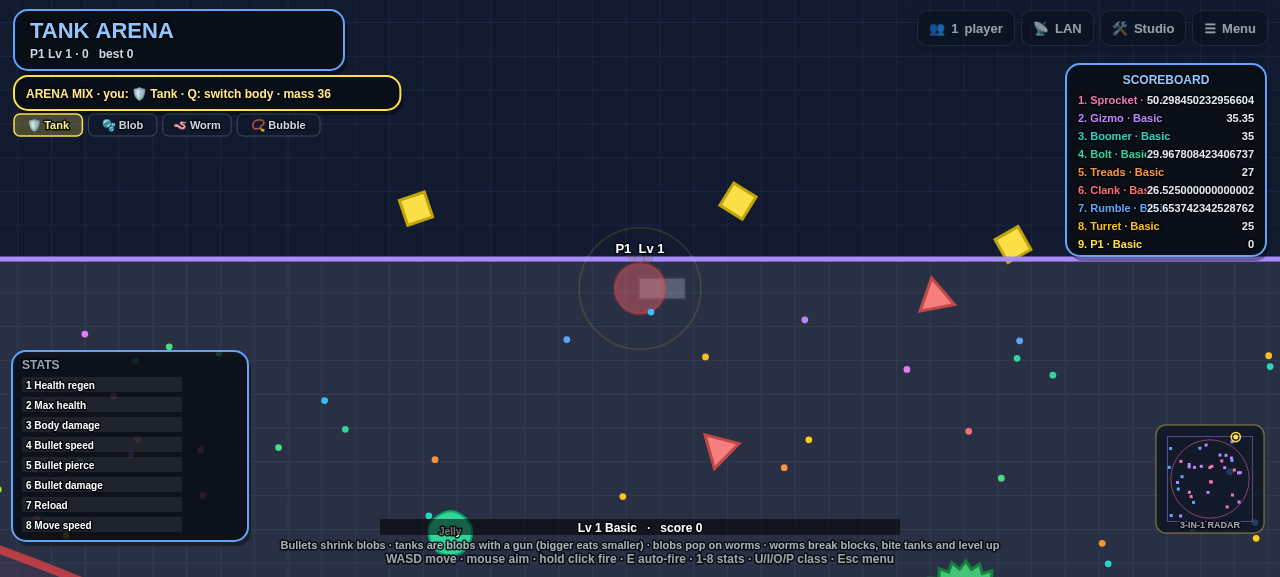
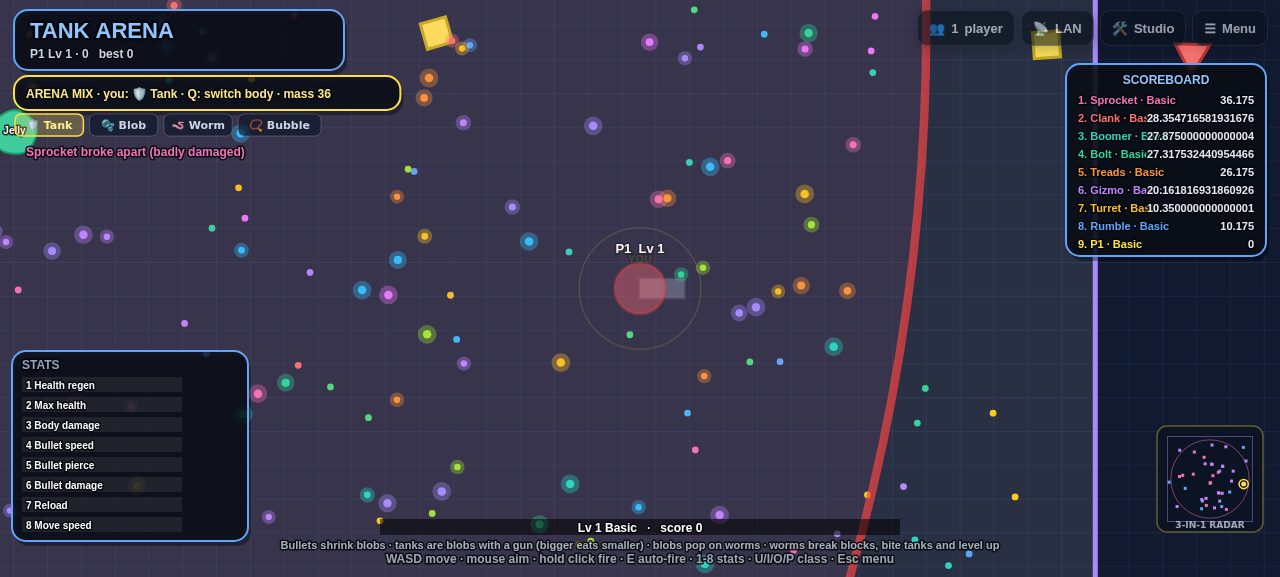
Add 2D pellet spatial grid, offscreen HUD/radar caching, and Cells/Snake pellet loop optimizations

diff --git a/game_mix.js b/game_mix.js
@@ -32,9 +32,36 @@ function mixSwapPop(arr, i) {
     arr.pop();
 }
 
+function mixBuildGrid(list, grid, used) {
+    for (let u = 0; u < used.length; u++) grid[used[u]].length = 0;
+    used.length = 0;
+    for (let i = 0; i < list.length; i++) {
+        var p = list[i];
+        p._gone = false;
+        var cx = (p.x + 3200) >> 8; if (cx < 0) cx = 0; else if (cx > 31) cx = 31;
+        var cy = (p.y + 3200) >> 8; if (cy < 0) cy = 0; else if (cy > 31) cy = 31;
+        var idx = (cy << 5) | cx;
+        var b = grid[idx];
+        if (!b) b = grid[idx] = [];
+        if (b.length === 0) used.push(idx);
+        b.push(p);
+    }
+}
+
+function mixCompactGone(list) {
+    var w = 0;
+    for (let i = 0; i < list.length; i++) {
+        var p = list[i];
+        if (!p._gone) list[w++] = p;
+    }
+    list.length = w;
+}
+
 var Mix = {
     on: false, t: 0, cam: { x: 0, y: 0, z: 0.8 }, view: null, log: [], fx: [],
     _blobR: [], _wormR: [], _tankS: [], _takers: [], _pills: [],
+    _cpGrid: new Array(1024), _cpUsed: [], _spGrid: new Array(1024), _spUsed: [],
+    _radarBg: null, _pillsCanvas: null, _pillsBody: "",
     stat: { bulletBlob: 0, bulletWorm: 0, blobAteTank: 0, tankAteBlob: 0, tankAteTank: 0, tankSplit: 0, blobPopped: 0, wormBite: 0, wormWall: 0, shapeBroken: 0, crossFood: 0, pickups: 0 },
 
     // every arena draws with the same camera; none of them may move it (this file does)
@@ -273,7 +300,15 @@ var Mix = {
             }
         }
         var sp0 = Snake.pellets, cp0 = Cells.pellets, viruses = Cells.viruses;
+        var cpGrid = this._cpGrid, spGrid = this._spGrid;
+        var cpBuilt = false, spBuilt = false, cpGone = false, spGone = false;
         var doWormFood = (this.t & 1) === 1;
+        if (doWormFood) {
+            if (sp0.length > 0 && tanks.length > 0) { mixBuildGrid(sp0, spGrid, this._spUsed); spBuilt = true; }
+        } else {
+            if (cp0.length > 0 && (tanks.length > 0 || worms.length > 0)) { mixBuildGrid(cp0, cpGrid, this._cpUsed); cpBuilt = true; }
+            if (sp0.length > 0 && blobs.length > 0) { mixBuildGrid(sp0, spGrid, this._spUsed); spBuilt = true; }
+        }
         for (let i = 0; i < tanks.length; i++) {
             var k = tanks[i];
             if (!k.alive) continue;
@@ -305,22 +340,40 @@ var Mix = {
             // decay like a blob (same setting as Blob Arena)
             if (cellsCfg.decay > 0 && k.mixMass > 40) { k.mixMass -= k.mixMass * cellsCfg.decay * (cellsCfg.decayGrow ? 1 + k.mixMass / 800 : 1); km = k.mixMass; }
             var ks2 = ks * ks;
+            var cx0 = ((kx - ks + 3200) >> 8); if (cx0 < 0) cx0 = 0;
+            var cx1 = ((kx + ks + 3200) >> 8); if (cx1 > 31) cx1 = 31;
+            var cy0 = ((ky - ks + 3200) >> 8); if (cy0 < 0) cy0 = 0;
+            var cy1 = ((ky + ks + 3200) >> 8); if (cy1 > 31) cy1 = 31;
             // collect some of the worms' food too (a third of its value, like blob food)
             if (doWormFood) {
-                for (let q = sp0.length - 1; q >= 0; q--) {
-                    var g0 = sp0[q], gdx = g0.x - kx, gdy = g0.y - ky;
-                    if (gdx < ks && gdx > -ks && gdy < ks && gdy > -ks && gdx * gdx + gdy * gdy < ks2) {
-                        k.mixMass += g0.v * 0.35; Tanks.gainXp(k, 1); mixSwapPop(sp0, q); S.crossFood++;
+                if (spBuilt) {
+                    for (let gy = cy0; gy <= cy1; gy++) {
+                        var row = gy << 5;
+                        for (let gx = cx0; gx <= cx1; gx++) {
+                            var bk = spGrid[row | gx];
+                            if (!bk || !bk.length) continue;
+                            for (let q = 0; q < bk.length; q++) {
+                                var g0 = bk[q]; if (g0._gone) continue;
+                                var gdx = g0.x - kx, gdy = g0.y - ky;
+                                if (gdx * gdx + gdy * gdy < ks2) { k.mixMass += g0.v * 0.35; Tanks.gainXp(k, 1); g0._gone = true; spGone = true; S.crossFood++; }
+                            }
+                        }
                     }
                 }
             } else {
                 // eat food (and the inert lumps other tanks dropped)
-                for (let q = cp0.length - 1; q >= 0; q--) {
-                    var f0 = cp0[q];
-                    if (f0.from === k && this.t - f0.born < 180) continue;
-                    var fdx = f0.x - kx, fdy = f0.y - ky;
-                    if (fdx < ks && fdx > -ks && fdy < ks && fdy > -ks && fdx * fdx + fdy * fdy < ks2) {
-                        k.mixMass += f0.m * (f0.lump ? 0.8 : 0.35); mixSwapPop(cp0, q); S.crossFood++;
+                if (cpBuilt) {
+                    for (let gy = cy0; gy <= cy1; gy++) {
+                        var rowC = gy << 5;
+                        for (let gx = cx0; gx <= cx1; gx++) {
+                            var bkC = cpGrid[rowC | gx];
+                            if (!bkC || !bkC.length) continue;
+                            for (let q = 0; q < bkC.length; q++) {
+                                var f0 = bkC[q]; if (f0._gone || (f0.from === k && this.t - f0.born < 180)) continue;
+                                var fdx = f0.x - kx, fdy = f0.y - ky;
+                                if (fdx * fdx + fdy * fdy < ks2) { k.mixMass += f0.m * (f0.lump ? 0.8 : 0.35); f0._gone = true; cpGone = true; S.crossFood++; }
+                            }
+                        }
                     }
                 }
             }
@@ -405,20 +458,36 @@ var Mix = {
             if (fx.speed > 0) fx.speed--;
             if (fx.magnet > 0) {
                 fx.magnet--;
+                if (!cpBuilt && cp0.length > 0) { mixBuildGrid(cp0, cpGrid, this._cpUsed); cpBuilt = true; }
+                if (!T.tank && !spBuilt && sp0.length > 0) { mixBuildGrid(sp0, spGrid, this._spUsed); spBuilt = true; }
                 var magSq = 380 * 380;
-                for (let z = 0; z < cp0.length; z++) {
-                    var mp = cp0[z], mdx = T.x - mp.x, mdy = T.y - mp.y;
-                    if (mdx < 380 && mdx > -380 && mdy < 380 && mdy > -380) {
-                        var mdsq = mdx * mdx + mdy * mdy;
-                        if (mdsq < magSq && mdsq > 1) { var md = Math.sqrt(mdsq); mp.x += mdx / md * 7; mp.y += mdy / md * 7; }
+                var mx0 = ((T.x - 380 + 3200) >> 8); if (mx0 < 0) mx0 = 0;
+                var mx1 = ((T.x + 380 + 3200) >> 8); if (mx1 > 31) mx1 = 31;
+                var my0 = ((T.y - 380 + 3200) >> 8); if (my0 < 0) my0 = 0;
+                var my1 = ((T.y + 380 + 3200) >> 8); if (my1 > 31) my1 = 31;
+                if (cpBuilt) {
+                    for (let gy = my0; gy <= my1; gy++) {
+                        var rowM = gy << 5;
+                        for (let gx = mx0; gx <= mx1; gx++) {
+                            var bkM = cpGrid[rowM | gx]; if (!bkM || !bkM.length) continue;
+                            for (let z = 0; z < bkM.length; z++) {
+                                var mp = bkM[z]; if (mp._gone) continue;
+                                var mdx = T.x - mp.x, mdy = T.y - mp.y, mdsq = mdx * mdx + mdy * mdy;
+                                if (mdsq < magSq && mdsq > 1) { var md = Math.sqrt(mdsq); mp.x += mdx / md * 7; mp.y += mdy / md * 7; }
+                            }
+                        }
                     }
                 }
-                if (!T.tank) {
-                    for (let z = 0; z < sp0.length; z++) {
-                        var mp2 = sp0[z], mdx2 = T.x - mp2.x, mdy2 = T.y - mp2.y;
-                        if (mdx2 < 380 && mdx2 > -380 && mdy2 < 380 && mdy2 > -380) {
-                            var mdsq2 = mdx2 * mdx2 + mdy2 * mdy2;
-                            if (mdsq2 < magSq && mdsq2 > 1) { var md2 = Math.sqrt(mdsq2); mp2.x += mdx2 / md2 * 7; mp2.y += mdy2 / md2 * 7; }
+                if (!T.tank && spBuilt) {
+                    for (let gy = my0; gy <= my1; gy++) {
+                        var rowM2 = gy << 5;
+                        for (let gx = mx0; gx <= mx1; gx++) {
+                            var bkM2 = spGrid[rowM2 | gx]; if (!bkM2 || !bkM2.length) continue;
+                            for (let z = 0; z < bkM2.length; z++) {
+                                var mp2 = bkM2[z]; if (mp2._gone) continue;
+                                var mdx2 = T.x - mp2.x, mdy2 = T.y - mp2.y, mdsq2 = mdx2 * mdx2 + mdy2 * mdy2;
+                                if (mdsq2 < magSq && mdsq2 > 1) { var md2 = Math.sqrt(mdsq2); mp2.x += mdx2 / md2 * 7; mp2.y += mdy2 / md2 * 7; }
+                            }
                         }
                     }
                 }
@@ -438,27 +507,55 @@ var Mix = {
             }
         }
         // ---- food crosses over (every other tick is plenty)
-        if ((this.t & 1) === 0) {
-            for (let j = 0; j < worms.length; j++) {
-                var w5 = worms[j];
-                if (!w5.alive) continue;
-                var h5 = w5.segs[0], rr5 = wormR[j] + 8;
-                for (let i = cp0.length - 1; i >= 0; i--) {
-                    var f = cp0[i], fdx5 = f.x - h5.x, fdy5 = f.y - h5.y;
-                    if (fdx5 < rr5 && fdx5 > -rr5 && fdy5 < rr5 && fdy5 > -rr5) { w5.len += f.m * 0.6; mixSwapPop(cp0, i); S.crossFood++; }
+        if (!doWormFood) {
+            if (cpBuilt) {
+                for (let j = 0; j < worms.length; j++) {
+                    var w5 = worms[j];
+                    if (!w5.alive) continue;
+                    var h5 = w5.segs[0], rr5 = wormR[j] + 8;
+                    var wx0 = ((h5.x - rr5 + 3200) >> 8); if (wx0 < 0) wx0 = 0;
+                    var wx1 = ((h5.x + rr5 + 3200) >> 8); if (wx1 > 31) wx1 = 31;
+                    var wy0 = ((h5.y - rr5 + 3200) >> 8); if (wy0 < 0) wy0 = 0;
+                    var wy1 = ((h5.y + rr5 + 3200) >> 8); if (wy1 > 31) wy1 = 31;
+                    for (let gy = wy0; gy <= wy1; gy++) {
+                        var rowW = gy << 5;
+                        for (let gx = wx0; gx <= wx1; gx++) {
+                            var bkW = cpGrid[rowW | gx]; if (!bkW || !bkW.length) continue;
+                            for (let i = 0; i < bkW.length; i++) {
+                                var f = bkW[i]; if (f._gone) continue;
+                                var fdx5 = f.x - h5.x, fdy5 = f.y - h5.y;
+                                if (fdx5 < rr5 && fdx5 > -rr5 && fdy5 < rr5 && fdy5 > -rr5) { w5.len += f.m * 0.6; f._gone = true; cpGone = true; S.crossFood++; }
+                            }
+                        }
+                    }
                 }
             }
-            for (let i = 0; i < blobs.length; i++) {
-                var b5 = blobs[i];
-                if (b5.dead) continue;
-                var r5 = blobR[i], r5sq = r5 * r5;
-                for (let j = sp0.length - 1; j >= 0; j--) {
-                    var g = sp0[j], gdx5 = g.x - b5.x, gdy5 = g.y - b5.y;
-                    if (gdx5 < r5 && gdx5 > -r5 && gdy5 < r5 && gdy5 > -r5 && gdx5 * gdx5 + gdy5 * gdy5 < r5sq) { b5.m += g.v; mixSwapPop(sp0, j); S.crossFood++; }
+            if (spBuilt) {
+                for (let i = 0; i < blobs.length; i++) {
+                    var b5 = blobs[i];
+                    if (b5.dead) continue;
+                    var r5 = blobR[i], r5sq = r5 * r5;
+                    var bx0 = ((b5.x - r5 + 3200) >> 8); if (bx0 < 0) bx0 = 0;
+                    var bx1 = ((b5.x + r5 + 3200) >> 8); if (bx1 > 31) bx1 = 31;
+                    var by0 = ((b5.y - r5 + 3200) >> 8); if (by0 < 0) by0 = 0;
+                    var by1 = ((b5.y + r5 + 3200) >> 8); if (by1 > 31) by1 = 31;
+                    for (let gy = by0; gy <= by1; gy++) {
+                        var rowB = gy << 5;
+                        for (let gx = bx0; gx <= bx1; gx++) {
+                            var bkB = spGrid[rowB | gx]; if (!bkB || !bkB.length) continue;
+                            for (let j = 0; j < bkB.length; j++) {
+                                var g = bkB[j]; if (g._gone) continue;
+                                var gdx5 = g.x - b5.x, gdy5 = g.y - b5.y;
+                                if (gdx5 * gdx5 + gdy5 * gdy5 < r5sq) { b5.m += g.v; g._gone = true; spGone = true; S.crossFood++; }
+                            }
+                        }
+                    }
                 }
             }
-            while (sp0.length < SNK.PELLETS) Snake.addPellet();
         }
+        if (cpGone) mixCompactGone(cp0);
+        if (spGone) mixCompactGone(sp0);
+        if (!doWormFood) while (sp0.length < SNK.PELLETS) Snake.addPellet();
         if (anyDead) {
             var wIdx = 0;
             for (let i = 0; i < blobs.length; i++) if (!blobs[i].dead) blobs[wIdx++] = blobs[i];
@@ -541,17 +638,26 @@ var Mix = {
         var size = 108, rx = cssW - size - 16, ry = cssH - size - 44;
         if (rx < 360 || ry < 160) return;
         var half = size * 0.5, cx = rx + half, cy = ry + half, scale = (size - 10) / 6000;
-        ctx.save();
-        ctx.fillStyle = "rgba(10,16,30,0.72)";
-        ctx.strokeStyle = "rgba(253,224,71,0.35)";
-        ctx.lineWidth = 1.5;
-        ctx.beginPath(); ctx.roundRect(rx, ry, size, size, 10); ctx.fill(); ctx.stroke();
-        // nested arenas: Tank square (6000), Blob square (5200), Worm ring (2400)
-        var bw = 5200 * scale;
-        ctx.strokeStyle = "rgba(167,139,250,0.45)"; ctx.lineWidth = 1;
-        ctx.strokeRect(cx - bw * 0.5, cy - bw * 0.5, bw, bw);
-        ctx.strokeStyle = "rgba(244,114,182,0.5)";
-        ctx.beginPath(); ctx.arc(cx, cy, 2400 * scale, 0, 7); ctx.stroke();
+        if (!this._radarBg) {
+            var rc = document.createElement("canvas");
+            rc.width = size; rc.height = size;
+            var g = rc.getContext("2d");
+            g.fillStyle = "rgba(10,16,30,0.72)";
+            g.strokeStyle = "rgba(253,224,71,0.35)";
+            g.lineWidth = 1.5;
+            g.beginPath(); g.roundRect(1, 1, size - 2, size - 2, 10); g.fill(); g.stroke();
+            var bw = 5200 * scale;
+            g.strokeStyle = "rgba(167,139,250,0.45)"; g.lineWidth = 1;
+            g.strokeRect(half - bw * 0.5, half - bw * 0.5, bw, bw);
+            g.strokeStyle = "rgba(244,114,182,0.5)";
+            g.beginPath(); g.arc(half, half, 2400 * scale, 0, 7); g.stroke();
+            g.font = "800 9px system-ui, sans-serif";
+            g.textAlign = "center";
+            g.fillStyle = "rgba(226,232,240,0.7)";
+            g.fillText("3-IN-1 RADAR", half, size - 5);
+            this._radarBg = rc;
+        }
+        ctx.drawImage(this._radarBg, rx, ry);
         // entity dots
         ctx.fillStyle = "#60a5fa";
         for (let i = 0; i < Tanks.tanks.length; i++) {
@@ -576,8 +682,6 @@ var Mix = {
             ctx.fillStyle = "#fde047";
             ctx.beginPath(); ctx.arc(px, py, 2.5, 0, 7); ctx.fill();
         }
-        uiText("3-IN-1 RADAR", cx, ry + size - 5, 9, "rgba(226,232,240,0.7)", "center", "800");
-        ctx.restore();
     },
 
     draw: function() {
@@ -622,28 +726,37 @@ var Mix = {
         for (let i = 0; i < MIX_BODIES.length; i++) if (MIX_BODIES[i][0] === mixCfg.body) { name = MIX_BODIES[i][1]; break; }
         var extra = "";
         if (m && m.alive && m.kind === "tank") extra = " · mass " + Math.round(this.tankMass(m.ref));
-        else if (m && m.alive && mixCfg.body === "chain" && m.ref.chainList) extra = " · " + m.ref.chainList.length + " bubbles";
+        else if (m && m.alive && mixCfg.body === "chain" && m.ref.chainList) { var bc = m.ref.chainList.length; extra = " · " + bc + (bc === 1 ? " bubble" : " bubbles"); }
         if (m && m.alive && m.kind === "worm" && m.ref.mx) { var X = m.ref.mx; extra = " · Lv " + X.lvl + (X.pts ? " · " + X.pts + " pt: 1 Bite " + X.st[0] + " · 2 Armor " + X.st[1] + " · 3 Appetite " + X.st[2] : " (B" + X.st[0] + " A" + X.st[1] + " P" + X.st[2] + ")"); }
         uiPanel(14, 76, Math.max(330, 60 + (name.length + extra.length + 34) * 6.4), 34, "#fde047", 0.8);
         uiText("ARENA MIX · you: " + name + " · Q: switch body" + extra, 26, 98, 12, "#fde68a", "left", "800");
 
-        // clickable quick-switch body pills
-        this._pills.length = 0;
-        var px = 14, py = 114;
-        ctx.save();
-        for (let i = 0; i < MIX_BODIES.length; i++) {
-            var bd = MIX_BODIES[i], active = bd[0] === mixCfg.body;
-            var lbl = bd[0] === "chain" ? "📿 Bubble" : bd[1];
-            var pw = lbl.length * 7.2 + 18;
-            ctx.fillStyle = active ? "rgba(253,224,71,0.24)" : "rgba(15,23,42,0.72)";
-            ctx.strokeStyle = active ? "#fde047" : "rgba(148,163,184,0.35)";
-            ctx.lineWidth = active ? 1.5 : 1;
-            ctx.beginPath(); ctx.roundRect(px, py, pw, 22, 6); ctx.fill(); ctx.stroke();
-            uiText(lbl, px + pw * 0.5, py + 15, 11, active ? "#fef08a" : "#cbd5e1", "center", active ? "800" : "700");
-            this._pills.push({ id: bd[0], x: px, y: py, w: pw, h: 22 });
-            px += pw + 6;
+        // clickable quick-switch body pills (cached to offscreen canvas per active body)
+        if (!this._pillsCanvas || this._pillsBody !== mixCfg.body) {
+            this._pillsBody = mixCfg.body;
+            this._pills.length = 0;
+            var pc = this._pillsCanvas || (this._pillsCanvas = document.createElement("canvas"));
+            pc.width = 360; pc.height = 26;
+            var pg = pc.getContext("2d");
+            pg.clearRect(0, 0, 360, 26);
+            var px = 0;
+            for (let i = 0; i < MIX_BODIES.length; i++) {
+                var bd = MIX_BODIES[i], active = bd[0] === mixCfg.body;
+                var lbl = bd[0] === "chain" ? "📿 Bubble" : bd[1];
+                var pw = lbl.length * 7.2 + 18;
+                pg.fillStyle = active ? "rgba(253,224,71,0.24)" : "rgba(15,23,42,0.72)";
+                pg.strokeStyle = active ? "#fde047" : "rgba(148,163,184,0.35)";
+                pg.lineWidth = active ? 1.5 : 1;
+                pg.beginPath(); pg.roundRect(px + 1, 1, pw, 22, 6); pg.fill(); pg.stroke();
+                pg.font = (active ? "800 " : "700 ") + "11px system-ui, sans-serif";
+                pg.textAlign = "center";
+                pg.fillStyle = active ? "#fef08a" : "#cbd5e1";
+                pg.fillText(lbl, px + 1 + pw * 0.5, 16);
+                this._pills.push({ id: bd[0], x: 14 + px, y: 114, w: pw, h: 22 });
+                px += pw + 6;
+            }
         }
-        ctx.restore();
+        ctx.drawImage(this._pillsCanvas, 14, 113);
 
         var lw = 0;
         for (let i = 0; i < this.log.length; i++) {

diff --git a/game_snake.js b/game_snake.js
@@ -200,17 +200,23 @@ var Snake = {
             w.segs = out;
             w.boosting = boosting;
             // eat
-            var r = this.radius(w);
-            for (let i = this.pellets.length - 1; i >= 0; i--) {
-                var p = this.pellets[i];
-                if (Math.abs(p.x - nh.x) < r + 14 && Math.abs(p.y - nh.y) < r + 14) {
+            var r = this.radius(w), rPull = r + 14, rEat = r + 6, rEat2 = rEat * rEat, rWall = SNK.R - r;
+            var ps = this.pellets;
+            for (let i = ps.length - 1; i >= 0; i--) {
+                var p = ps[i], dxp = p.x - nh.x, dyp = p.y - nh.y;
+                if (dxp < rPull && dxp > -rPull && dyp < rPull && dyp > -rPull) {
                     // pellets get sucked in for a frame or two before they disappear
-                    if (Math.hypot(p.x - nh.x, p.y - nh.y) < r + 6) { w.len += p.v * 0.75; p.eaten = true; this.pellets.splice(i, 1); }
-                    else { p.x += (nh.x - p.x) * 0.3; p.y += (nh.y - p.y) * 0.3; }
+                    if (dxp * dxp + dyp * dyp < rEat2) {
+                        w.len += p.v * 0.75; p.eaten = true;
+                        var lastP = ps.length - 1;
+                        if (i < lastP) ps[i] = ps[lastP];
+                        ps.pop();
+                    }
+                    else { p.x -= dxp * 0.3; p.y -= dyp * 0.3; }
                 }
             }
             // die on the wall or another worm's body
-            if (Math.hypot(nh.x, nh.y) > SNK.R - r) { this.kill(w, null); continue; }
+            if (nh.x * nh.x + nh.y * nh.y > rWall * rWall) { this.kill(w, null); continue; }
             if (w.safeT > 0) { w.safeT--; continue; }
             var hit = this.hitBody(nh.x, nh.y, r * 0.7, w);
             if (hit) this.kill(w, hit);

diff --git a/game_cells.js b/game_cells.js
@@ -286,14 +286,23 @@ var Cells = {
             }
         }
         // pellets (and ejected mass, which drifts to a stop)
+        var bRads = this._bRads || (this._bRads = []);
+        for (let i = 0; i < B.length; i++) bRads[i] = B[i].dead ? 0 : this.rad(B[i].m);
         for (let k = this.pellets.length - 1; k >= 0; k--) {
             var p = this.pellets[k];
             if (p.vx || p.vy) { p.x += p.vx; p.y += p.vy; p.vx *= 0.88; p.vy *= 0.88; if (Math.abs(p.vx) + Math.abs(p.vy) < 0.1) p.vx = p.vy = 0; }
+            var px = p.x, py = p.y, pm = p.m;
             for (let i = 0; i < B.length; i++) {
                 var q = B[i];
-                if (q.dead) continue;
-                var rq = this.rad(q.m);
-                if (Math.abs(p.x - q.x) < rq && Math.abs(p.y - q.y) < rq && Math.hypot(p.x - q.x, p.y - q.y) < rq && (p.m < 5 || q.m > 20)) { q.m += p.m; this.pellets.splice(k, 1); break; }
+                if (q.dead || (pm >= 5 && q.m <= 20)) continue;
+                var rq = bRads[i], dx = px - q.x, dy = py - q.y;
+                if (dx < rq && dx > -rq && dy < rq && dy > -rq && dx * dx + dy * dy < rq * rq) {
+                    q.m += pm; bRads[i] = this.rad(q.m);
+                    var lastC = this.pellets.length - 1;
+                    if (k < lastC) this.pellets[k] = this.pellets[lastC];
+                    this.pellets.pop();
+                    break;
+                }
             }
         }
         // viruses pop big blobs
